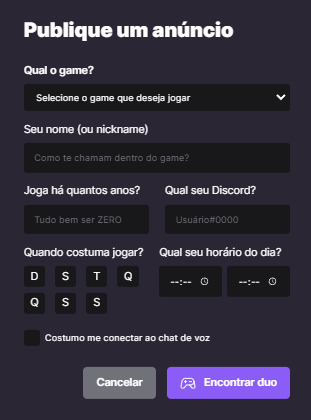
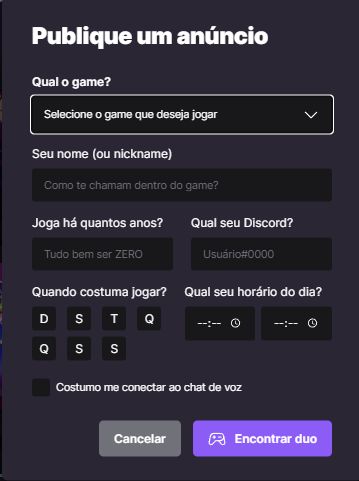
new: added primitive select + new previews

diff --git a/web/src/components/CreateAdModal.tsx b/web/src/components/CreateAdModal.tsx
@@ -1,30 +1,30 @@
 import { useState, useEffect, FormEvent } from "react";
 
-import { GameController, Check } from "phosphor-react";
+import { GameController, Check, CaretDown, CaretUp } from "phosphor-react";
 
 import * as Dialog from "@radix-ui/react-dialog";
 import * as Checkbox from "@radix-ui/react-checkbox";
 import * as ToggleGroup from "@radix-ui/react-toggle-group";
+import * as Select from "@radix-ui/react-select";
 
 import { Input } from "./Form/Input";
+import { Option } from "../components/Form/Option"
+
 import axios from "axios";
 
 interface Game {
     id: string;
     title: string;
 }
-  
 
 export function CreateAdModal() {
+  const [gameId, setGameId] = useState<string>("")
   const [games, setGames] = useState<Game[]>([]);
   const [weekDays, setWeekdays] = useState<string[]>([])
   const [useVoiceChannel, setUseVoiceChannel] = useState(false)
 
   useEffect(() => {
-    axios("http://localhost:3333/games")
-      .then(response => {
-        setGames(response.data);
-      });
+    axios("http://localhost:3333/games").then(response => setGames(response.data));
   }, []);
 
   async function handleCreateAd(event : FormEvent) {
@@ -33,12 +33,27 @@ export function CreateAdModal() {
     const formData = new FormData(event.target as HTMLFormElement);
     const data = Object.fromEntries(formData);
 
-    if (!data.name) {
-        return;
+    if (!gameId) { alert("Escolha um jogo."); return }
+    if (!data.name) { alert("Preencha o campo nome."); return }
+    if (!data.yearsPlaying) { 
+        alert("Há quantos anos joga? (Pode ser ZERO)") 
+        return
+      }
+    if (!String(data.discord).match(/.*[^# ]#[0-9]{4}/g)) { 
+      alert("Discord no formato: Usuário#0000")
+      return
+    }
+    if (weekDays.length === 0) {
+        alert("Escolha pelo menos 1 dia da semana.");
+        return 
+    }
+    if (!String(data.hourStart).match(/([0-1]?[0-9]|2[0-3]):[0-5][0-9]/g) || !String(data.hourEnd).match(/([0-1]?[0-9]|2[0-3]):[0-5][0-9]/g)) {
+        alert("Escolha um horário válido.")
+        return
     }
 
     try {
-        await axios.post(`http://localhost:3333/games/${data.game}/ads`, {
+        await axios.post(`http://localhost:3333/games/${gameId}/ads`, {
             name: data.name,
             yearsPlaying: Number(data.yearsPlaying),
             discord: data.discord,
@@ -68,26 +83,43 @@ export function CreateAdModal() {
             <label htmlFor="game" className="font-semibold">
               Qual o game?
             </label>
-            <select 
-                id="game" 
-                name="game"
-                className="bg-zinc-900 py-3 px-4 rounded text-sm"
-                defaultValue=""
-            >
-              <option value="" disabled className="text-zinc-500">
-                Selecione o game que deseja jogar
-              </option>
-              { games.map(game => {
-                return (
-                    <option key={game.id} value={game.id}>{game.title}</option>
-                )
-              }) }
-            </select>
+
+            <Select.Root onValueChange={value => setGameId(value)}>
+              
+              <Select.Trigger className="py-3 px-4 text-sm flex items-center justify-between rounded bg-zinc-900">
+                <Select.SelectValue placeholder="Selecione o game que deseja jogar" />
+                <Select.Icon>
+                  <CaretDown className="w-6 h-6" />
+                </Select.Icon>
+              </Select.Trigger>
+
+              <Select.Portal>
+              <Select.Content className="py-3 px-4 text-white bg-zinc-900 overflow-hidden rounded">
+
+              <Select.SelectScrollUpButton className="bg-violet-500/50 rounded flex items-center justify-center">
+                <CaretUp weight="bold" />
+              </Select.SelectScrollUpButton>
+
+                <Select.SelectViewport>
+                  <Option disabled text="Selecione o game que deseja jogar" value="" />
+                  {games.map(game =>
+                    <Option key={game.id} value={game.id} text={game.title} />
+                  )}
+                </Select.SelectViewport>
+
+              </Select.Content>
+              </Select.Portal>
+
+            </Select.Root>
           </div>
 
           <div className="flex flex-col gap-2">
             <label htmlFor="name">Seu nome (ou nickname)</label>
-            <Input id="name" name="name" placeholder="Como te chamam dentro do game?" />
+            <Input
+              id="name"
+              name="name"
+              placeholder="Como te chamam dentro do game?"
+            />
           </div>
 
           <div className="grid grid-cols-2 gap-6">
@@ -102,62 +134,119 @@ export function CreateAdModal() {
             </div>
             <div className="flex flex-col gap-2">
               <label htmlFor="discord">Qual seu Discord?</label>
-              <Input name="discord" id="discord" type="text" placeholder="Usuário#0000" />
+              <Input
+                name="discord"
+                id="discord"
+                type="text"
+                placeholder="Usuário#0000"
+              />
             </div>
           </div>
 
           <div className="flex gap-6">
             <div className="flex flex-col gap-2">
               <label htmlFor="weekDays">Quando costuma jogar?</label>
-                <ToggleGroup.Root 
-                    type="multiple" 
-                    className="grid grid-cols-4 gap-2"
-                    value={weekDays}
-                    onValueChange={setWeekdays}
+              <ToggleGroup.Root
+                type="multiple"
+                className="grid grid-cols-4 gap-2"
+                value={weekDays}
+                onValueChange={setWeekdays}
+              >
+                <ToggleGroup.Item
+                  title="Domingo"
+                  value="0"
+                  className={`w-8 h-8 rounded  ${
+                    weekDays.includes("0") ? "bg-violet-500" : "bg-zinc-900"
+                  }`}
                 >
-                    <ToggleGroup.Item title="Domingo" value="0" className={`w-8 h-8 rounded  ${weekDays.includes('0') ? 'bg-violet-500' : 'bg-zinc-900'}`} >
-                    D
-                    </ToggleGroup.Item>
-                    <ToggleGroup.Item title="Segunda" className={`w-8 h-8 rounded  ${weekDays.includes('1') ? 'bg-violet-500' : 'bg-zinc-900'}`}  value="1">
-                    S
-                    </ToggleGroup.Item>
-                    <ToggleGroup.Item title="Terça" className={`w-8 h-8 rounded  ${weekDays.includes('2') ? 'bg-violet-500' : 'bg-zinc-900'}`}  value="2">
-                    T
-                    </ToggleGroup.Item>
-                    <ToggleGroup.Item title="Quarta" className={`w-8 h-8 rounded  ${weekDays.includes('3') ? 'bg-violet-500' : 'bg-zinc-900'}`}  value="3">
-                    Q
-                    </ToggleGroup.Item>
-                    <ToggleGroup.Item title="Quinta" className={`w-8 h-8 rounded  ${weekDays.includes('4') ? 'bg-violet-500' : 'bg-zinc-900'}`}  value="4">
-                    Q
-                    </ToggleGroup.Item>
-                    <ToggleGroup.Item title="Sexta" className={`w-8 h-8 rounded  ${weekDays.includes('5') ? 'bg-violet-500' : 'bg-zinc-900'}`}  value="5">
-                    S
-                    </ToggleGroup.Item>
-                    <ToggleGroup.Item title="Sábado" className={`w-8 h-8 rounded  ${weekDays.includes('6') ? 'bg-violet-500' : 'bg-zinc-900'}`}  value="6">
-                    S
-                    </ToggleGroup.Item>
-                </ToggleGroup.Root>
+                  D
+                </ToggleGroup.Item>
+                <ToggleGroup.Item
+                  title="Segunda"
+                  className={`w-8 h-8 rounded  ${
+                    weekDays.includes("1") ? "bg-violet-500" : "bg-zinc-900"
+                  }`}
+                  value="1"
+                >
+                  S
+                </ToggleGroup.Item>
+                <ToggleGroup.Item
+                  title="Terça"
+                  className={`w-8 h-8 rounded  ${
+                    weekDays.includes("2") ? "bg-violet-500" : "bg-zinc-900"
+                  }`}
+                  value="2"
+                >
+                  T
+                </ToggleGroup.Item>
+                <ToggleGroup.Item
+                  title="Quarta"
+                  className={`w-8 h-8 rounded  ${
+                    weekDays.includes("3") ? "bg-violet-500" : "bg-zinc-900"
+                  }`}
+                  value="3"
+                >
+                  Q
+                </ToggleGroup.Item>
+                <ToggleGroup.Item
+                  title="Quinta"
+                  className={`w-8 h-8 rounded  ${
+                    weekDays.includes("4") ? "bg-violet-500" : "bg-zinc-900"
+                  }`}
+                  value="4"
+                >
+                  Q
+                </ToggleGroup.Item>
+                <ToggleGroup.Item
+                  title="Sexta"
+                  className={`w-8 h-8 rounded  ${
+                    weekDays.includes("5") ? "bg-violet-500" : "bg-zinc-900"
+                  }`}
+                  value="5"
+                >
+                  S
+                </ToggleGroup.Item>
+                <ToggleGroup.Item
+                  title="Sábado"
+                  className={`w-8 h-8 rounded  ${
+                    weekDays.includes("6") ? "bg-violet-500" : "bg-zinc-900"
+                  }`}
+                  value="6"
+                >
+                  S
+                </ToggleGroup.Item>
+              </ToggleGroup.Root>
             </div>
             <div className="flex flex-col gap-2 flex-1">
               <label htmlFor="hourStart">Qual seu horário do dia?</label>
               <div className="grid grid-cols-2 gap-2">
-                <Input name="hourStart" id="hourStart" type="time" placeholder="De"/>
-                <Input name="hourEnd" id="hourEnd" type="time" placeholder="Até" />
+                <Input
+                  name="hourStart"
+                  id="hourStart"
+                  type="time"
+                  placeholder="De"
+                />
+                <Input
+                  name="hourEnd"
+                  id="hourEnd"
+                  type="time"
+                  placeholder="Até"
+                />
               </div>
             </div>
           </div>
 
           <label className="mt-2 flex items-center gap-2 text-sm">
-            <Checkbox.Root 
-                className="w-6 h-6 p-1 rounded bg-zinc-900"
-                checked={useVoiceChannel}
-                onCheckedChange={(checked) => {
-                    if (checked === true) {
-                        setUseVoiceChannel(true);
-                    } else {
-                        setUseVoiceChannel(false);
-                    }
-                }}
+            <Checkbox.Root
+              className="w-6 h-6 p-1 rounded bg-zinc-900"
+              checked={useVoiceChannel}
+              onCheckedChange={(checked) => {
+                if (checked === true) {
+                  setUseVoiceChannel(true);
+                } else {
+                  setUseVoiceChannel(false);
+                }
+              }}
             >
               <Checkbox.Indicator>
                 <Check className="w-4 h-4 text-emerald-400" />

diff --git a/web/src/components/Form/Option.tsx b/web/src/components/Form/Option.tsx
@@ -1,0 +1,23 @@
+import * as SelectPrimitive from "@radix-ui/react-select"
+import { CaretLeft } from "phosphor-react"
+import { OptionHTMLAttributes } from "react"
+
+interface Props extends OptionHTMLAttributes<HTMLInputElement> {
+  value: string
+  text: string
+}
+
+export function Option(props: Props) {
+    return (
+        <SelectPrimitive.SelectItem
+        {...props}
+        value={props.value} 
+        className="flex items-center gap-2 p-1 rounded justify-between hover:bg-violet-500/50 cursor-pointer" 
+      >
+        <SelectPrimitive.SelectItemText>{props.text}</SelectPrimitive.SelectItemText>
+        <SelectPrimitive.SelectItemIndicator className="items-center justify-center">
+          <CaretLeft weight="fill" />
+        </SelectPrimitive.SelectItemIndicator>
+      </SelectPrimitive.SelectItem>
+    )
+}
